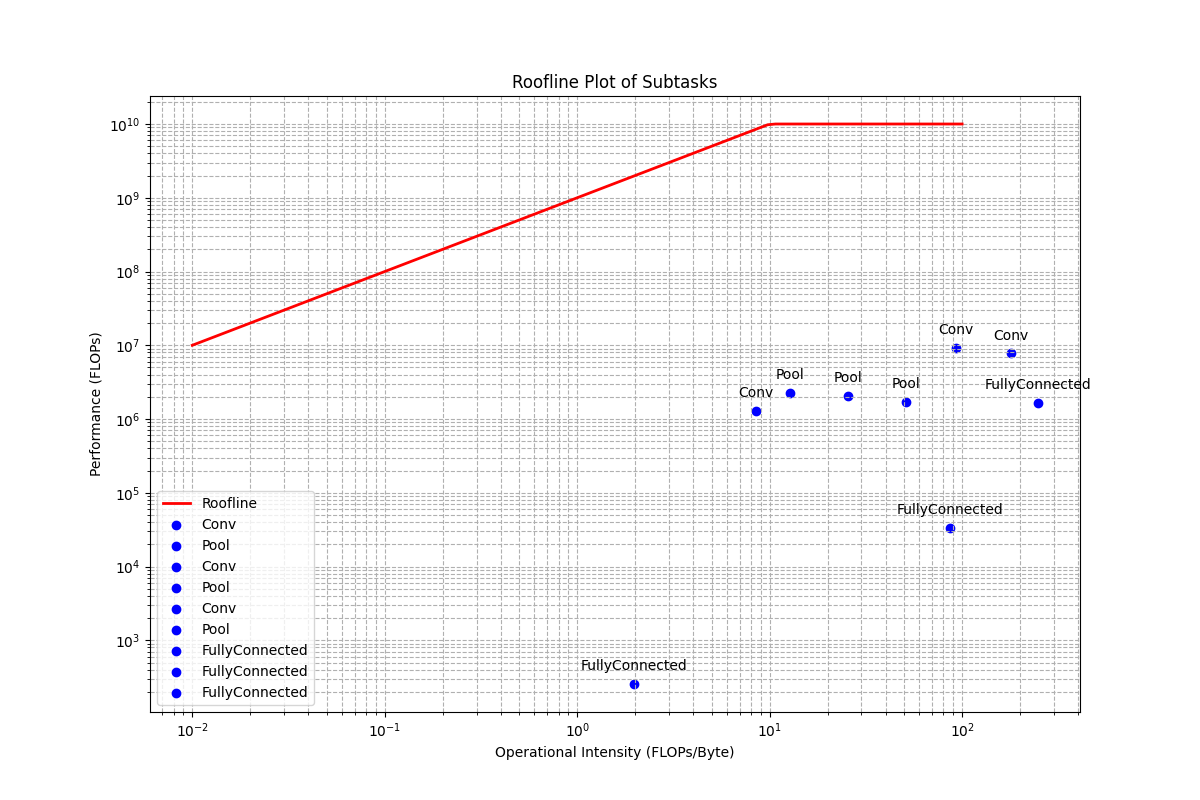
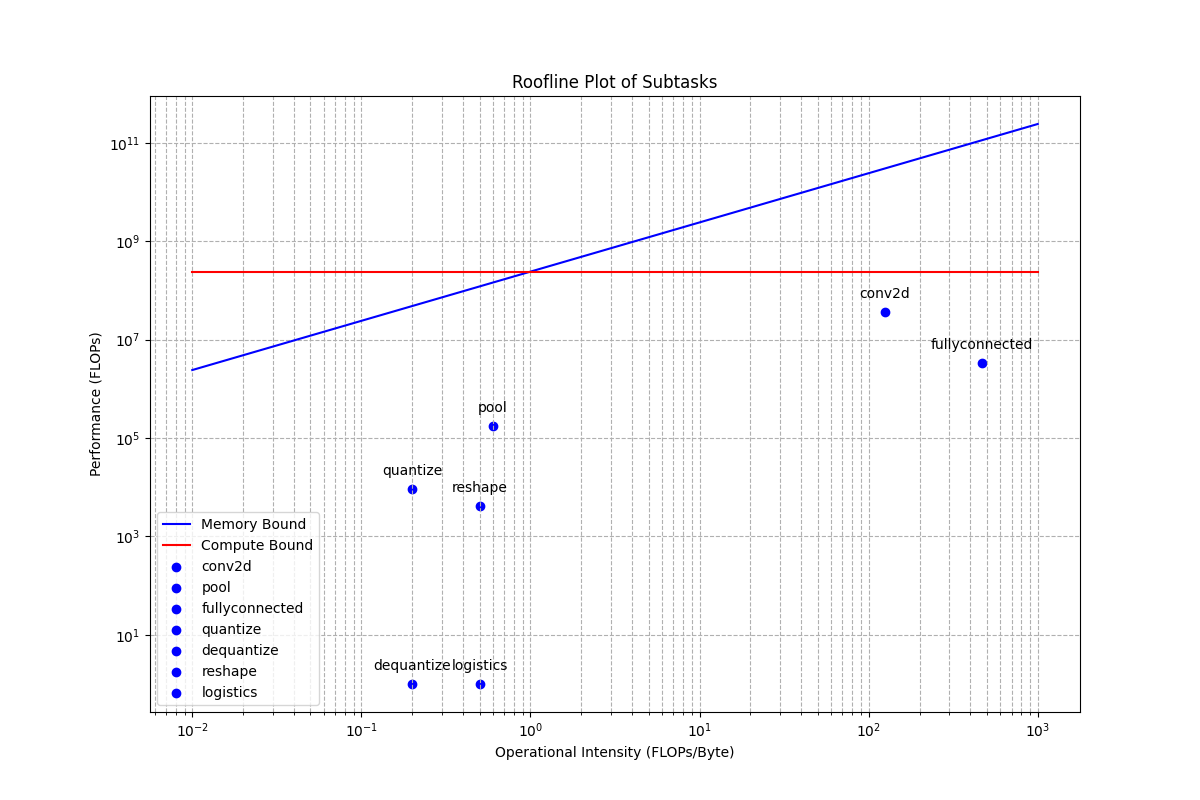
update task2

diff --git a/lab4/task2/roofline_v1000.py b/lab4/task2/roofline_v1000.py
@@ -1,0 +1,57 @@
+import pandas as pd
+import numpy as np
+import matplotlib.pyplot as plt
+
+# Crear un diccionario con los datos proporcionados
+data_dict = {
+    'Layer type': ['conv2d', 'pool', 'fullyconnected', 'quantize', 'dequantize', 'reshape', 'logistics'],
+    'N MAC': [36699264, 174804, 3356160, 9216, 1, 4096, 1],
+    'Total Bytes Procesados': [293832, 291340, 7169, 46080, 5, 8192, 2],
+    'Operational Intensity': [124.8987993, 0.6, 468.1489748, 0.2, 0.2, 0.5, 0.5]
+}
+
+# Convertir el diccionario a un DataFrame
+df = pd.DataFrame(data_dict)
+
+# Definir el ancho de banda y el rendimiento máximo basado en la frecuencia proporcionada
+Freq = 240e6  # 240 MHz
+
+peak_throughput_ops = Freq  # Rendimiento máximo en operaciones por segundo (Ops/s)
+bandwidth_bytes = Freq  # Ancho de banda de memoria en bytes por segundo
+
+# Definir el rango de intensidad
+intensity = np.linspace(1e-2, 1e3, 100)  # Rango de intensidad operativa
+
+# Calcular los límites del Roofline
+roof_memory_bound = intensity * bandwidth_bytes  # Rendimiento limitado por la memoria
+roof_compute_bound = np.ones_like(intensity) * peak_throughput_ops  # Rendimiento limitado por el cómputo
+
+# Graficar el Roofline
+plt.figure(figsize=(12, 8))
+
+# Graficar el modelo Roofline
+plt.plot(intensity, roof_memory_bound, label='Memory Bound', color='blue')
+plt.plot(intensity, roof_compute_bound, label='Compute Bound', color='red')
+
+# Graficar los puntos para las tareas con etiquetas de capas
+for i, row in df.iterrows():
+    plt.scatter(row['Operational Intensity'], row['N MAC'], label=row['Layer type'], color='blue')
+    plt.annotate(row['Layer type'], (row['Operational Intensity'], row['N MAC']), textcoords="offset points", xytext=(0,10), ha='center')
+
+# Etiquetas y título
+plt.xscale('log')
+plt.yscale('log')
+plt.xlabel('Operational Intensity (FLOPs/Byte)')
+plt.ylabel('Performance (FLOPs)')
+plt.title('Roofline Plot of Subtasks')
+plt.legend()
+plt.grid(True, which="both", ls="--")
+
+# Guardar el gráfico como un archivo PNG
+output_path = 'lab4/task2/roofline_plot.png'
+plt.savefig(output_path)
+
+# Mostrar el gráfico
+plt.show()
+
+print(f"El gráfico ha sido guardado en {output_path}")

diff --git a/lab4/task2/calculo_de_weas.py b/lab4/task2/calculo_de_weas.py
@@ -1,0 +1,17 @@
+import numpy as np
+
+# Dimensiones del tensor
+batch_size = 1  # Puede ser cualquier número, aquí se asume 1 para el ejemplo
+num_elements = 1  # Para el tensor de forma [-1, 1]
+
+# Cálculo del número de operaciones
+num_operations = num_elements * batch_size
+
+# Cálculo de bytes procesados
+bytes_int8_input = num_elements * batch_size * 1     # int8 ocupa 1 byte
+bytes_int8_output = num_elements * batch_size * 1    # int8 ocupa 1 byte
+
+# Resultados
+print(f"Número de operaciones: {num_operations}")
+print(f"Bytes procesados por el tensor de entrada (int8): {bytes_int8_input}")
+print(f"Bytes procesados por el tensor de salida (int8): {bytes_int8_output}")
